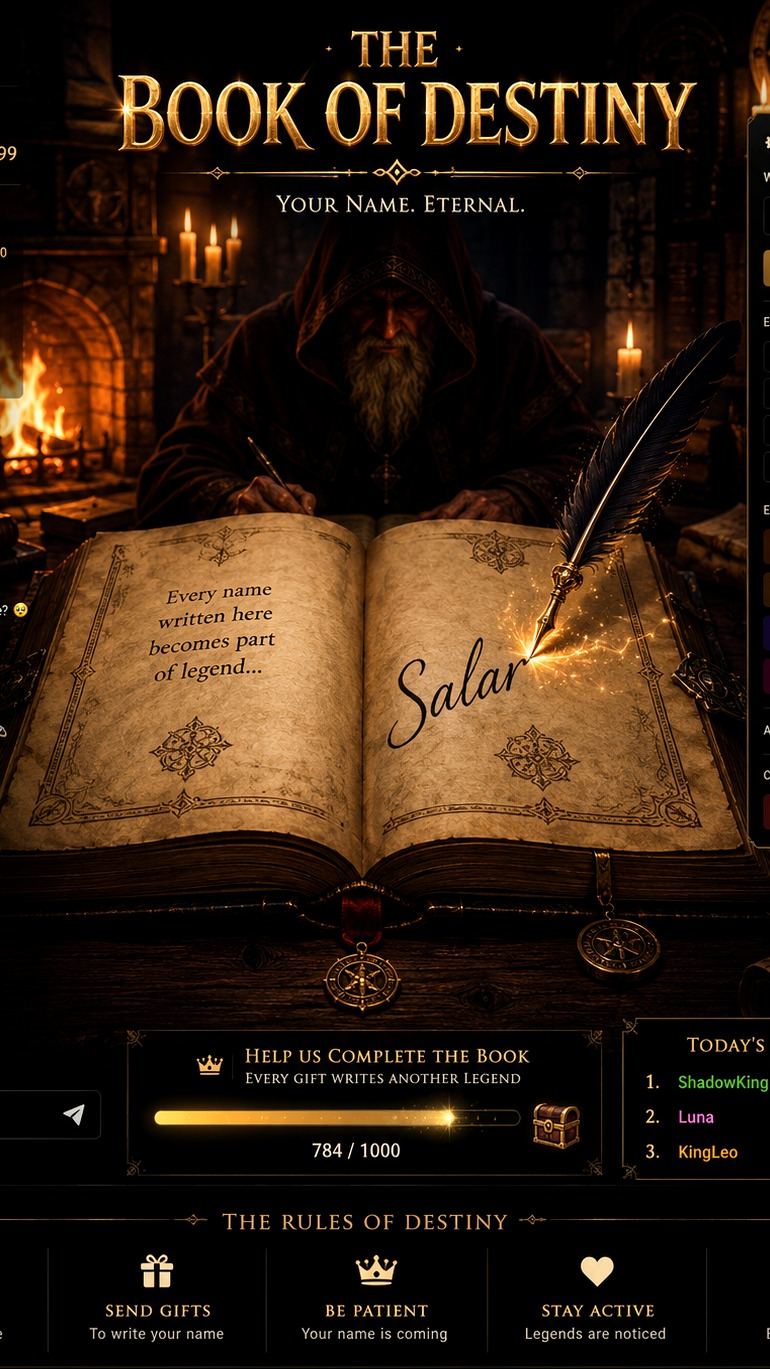
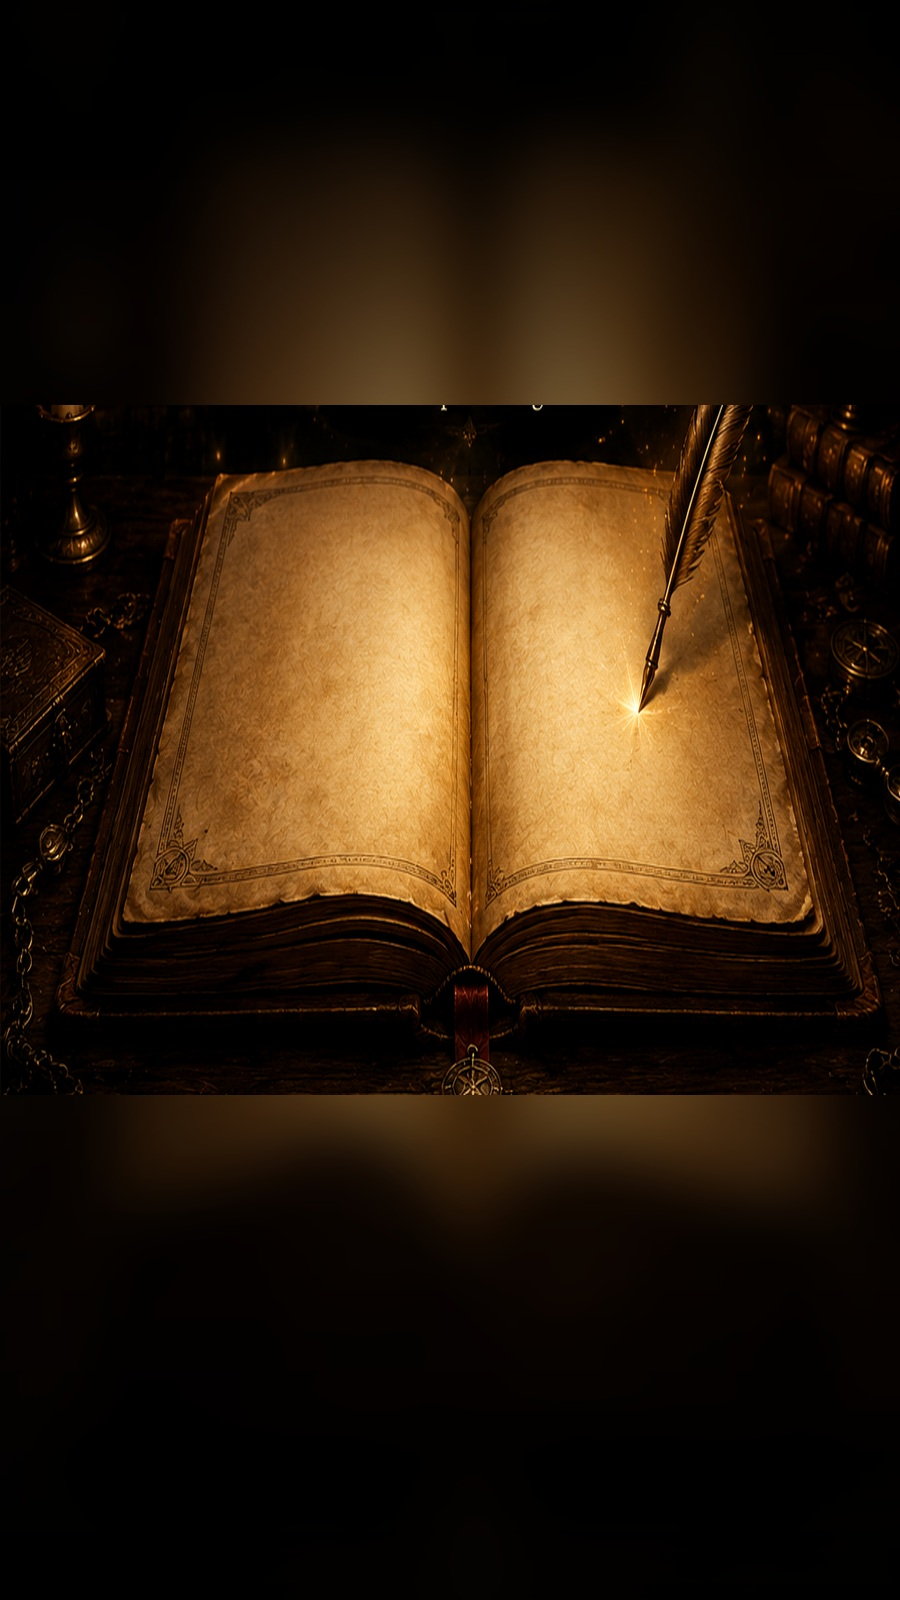
Add files via upload

diff --git a/index.html b/index.html
@@ -3,223 +3,116 @@
 <head>
 <meta charset="utf-8">
 <meta name="viewport" content="width=device-width,initial-scale=1,maximum-scale=1,user-scalable=no">
-<meta name="theme-color" content="#050301">
 <title>The Book of Destiny</title>
 <style>
-  :root{
-    --gold:#f4c56b;
-    --ink:#2a1308;
-  }
-  *{box-sizing:border-box}
-  html,body{
-    width:100%;height:100%;margin:0;overflow:hidden;background:#000;
-    font-family:Georgia,"Times New Roman",serif;
-  }
-  #app{
-    position:relative;
-    width:100vw;height:100vh;
-    background:
-      linear-gradient(to bottom,rgba(0,0,0,.12),rgba(0,0,0,.05) 55%,rgba(0,0,0,.42)),
-      url("background.jpg") center center/cover no-repeat;
-  }
+:root{--gold:#e9b74e;--cream:#ffecc2;--ink:#2a1407}
+*{box-sizing:border-box}
+html,body{margin:0;width:100%;height:100%;overflow:hidden;background:#000;font-family:Georgia,serif}
+#app{
+  position:relative;width:100vw;height:100vh;overflow:hidden;
+  background:url("background.jpg") center/cover no-repeat;
+}
+.title{
+  position:absolute;left:5%;right:5%;top:4%;text-align:center;color:var(--gold);
+  text-shadow:0 3px 14px #000,0 0 30px #000;
+}
+.title h1{margin:0;font-size:clamp(36px,8.8vw,74px);line-height:.95;letter-spacing:.04em}
+.title p{margin:14px 0 0;color:#fff4dc;font-size:clamp(16px,3.8vw,27px)}
 
-  /* subtle cinematic movement */
-  #app::before{
-    content:"";
-    position:absolute;inset:-3%;
-    background:inherit;
-    filter:saturate(1.04);
-    animation:breathe 9s ease-in-out infinite alternate;
-    pointer-events:none;
-  }
-  @keyframes breathe{
-    from{transform:scale(1.00)}
-    to{transform:scale(1.025)}
-  }
+#name{
+  position:absolute;
+  left:52.5%;top:47.3%;
+  width:38%;height:11%;
+  display:flex;align-items:center;justify-content:center;
+  padding:0 .25rem;
+  text-align:center;white-space:nowrap;
+  color:var(--ink);
+  font-family:"Brush Script MT","Segoe Script","Snell Roundhand",cursive;
+  font-size:clamp(37px,8vw,76px);
+  transform:rotate(-1.8deg);
+  opacity:0;
+}
+#name.write{opacity:1;animation:reveal 2.4s steps(24,end),glow 2.6s ease-out}
+@keyframes reveal{from{clip-path:inset(0 100% 0 0)}to{clip-path:inset(0 0 0 0)}}
+@keyframes glow{0%,78%{filter:none}91%{filter:drop-shadow(0 0 12px #ffd36a)}100%{filter:none}}
 
-  .top{
-    position:absolute;z-index:3;top:3.2%;left:50%;transform:translateX(-50%);
-    width:92%;text-align:center;color:#f8d993;text-shadow:0 2px 10px #000,0 0 22px #000;
-  }
-  .top h1{
-    margin:0;font-size:clamp(27px,7vw,58px);letter-spacing:.06em;
-    line-height:.95;
-  }
-  .top p{
-    margin:.55rem 0 0;font-size:clamp(14px,3.2vw,23px);
-    color:#fff1c8;letter-spacing:.04em;
-  }
-
-  .instruction{
-    position:absolute;z-index:3;bottom:4.2%;left:50%;transform:translateX(-50%);
-    width:88%;padding:.72rem 1rem;text-align:center;
-    color:#ffe6aa;background:rgba(0,0,0,.58);
-    border:1px solid rgba(244,197,107,.55);border-radius:999px;
-    font-size:clamp(14px,3.6vw,22px);letter-spacing:.03em;
-    backdrop-filter:blur(6px);
-    box-shadow:0 6px 30px rgba(0,0,0,.45);
-  }
-
-  /* covers the static generated name, then displays the live name */
-  .name-stage{
-    position:absolute;z-index:4;
-    left:52.5%;top:56.2%;
-    width:41%;height:12%;
-    transform:rotate(-3deg);
-    display:flex;align-items:center;justify-content:center;
-    overflow:hidden;
-    border-radius:10px;
-    background:
-      radial-gradient(ellipse at center,rgba(213,172,102,.96),rgba(170,121,59,.94));
-    box-shadow:inset 0 0 18px rgba(70,30,6,.28);
-  }
-  #name{
-    width:100%;padding:0 .35rem;text-align:center;white-space:nowrap;
-    color:var(--ink);
-    font-family:"Brush Script MT","Segoe Script","Snell Roundhand",cursive;
-    font-size:clamp(34px,8.5vw,76px);
-    line-height:1;
-    text-shadow:0 1px 0 rgba(255,255,255,.2);
-    opacity:0;
-  }
-  #name.writing{
-    opacity:1;
-    animation:reveal 2.6s steps(26,end), glow 2.6s ease-out;
-  }
-  @keyframes reveal{
-    from{clip-path:inset(0 100% 0 0)}
-    to{clip-path:inset(0 0 0 0)}
-  }
-  @keyframes glow{
-    0%,80%{filter:none}
-    92%{filter:drop-shadow(0 0 10px #ffd36f)}
-    100%{filter:none}
-  }
-
-  .spark{
-    position:absolute;z-index:5;left:76%;top:62%;
-    width:10px;height:10px;border-radius:50%;
-    background:#fff6bc;box-shadow:0 0 10px #ffd36f,0 0 25px #ff8d20;
-    opacity:0;
-  }
-  .spark.play{
-    animation:spark 2.6s linear;
-  }
-  @keyframes spark{
-    0%{opacity:0;transform:translateX(-150px) scale(.5)}
-    12%{opacity:1}
-    85%{opacity:1;transform:translateX(0) scale(1.2)}
-    100%{opacity:0;transform:translateX(15px) scale(0)}
-  }
-
-  .status{
-    position:absolute;z-index:9;left:10px;bottom:10px;
-    color:rgba(255,255,255,.12);font:11px Arial,sans-serif;
-    user-select:none;pointer-events:none;
-  }
-
-  /* hidden buffer: physical keyboard only */
-  #secret{
-    position:fixed;left:-10000px;top:-10000px;
-    opacity:0;width:1px;height:1px;
-  }
-
-  .flash{
-    position:absolute;inset:0;z-index:8;pointer-events:none;opacity:0;
-    background:radial-gradient(circle at 65% 60%,rgba(255,195,80,.30),transparent 38%);
-  }
-  .flash.play{animation:flash .75s ease-out}
-  @keyframes flash{0%{opacity:0}35%{opacity:1}100%{opacity:0}}
-
-  @media (orientation:landscape){
-    #app{width:56.25vh;height:100vh;margin:auto}
-  }
+#panel{
+  position:absolute;left:50%;bottom:5%;transform:translateX(-50%);
+  width:min(92%,680px);
+  display:flex;gap:9px;padding:11px;
+  background:rgba(3,2,1,.9);
+  border:1px solid rgba(233,183,78,.75);
+  border-radius:16px;backdrop-filter:blur(8px);
+}
+#panel.hidden{display:none}
+input,button{height:52px;border:0;border-radius:10px;font-size:18px}
+input{flex:1;min-width:0;padding:0 15px;background:#fff2d1;color:#241104}
+button{padding:0 16px;color:#fff8df;font-weight:700;background:linear-gradient(#d8a943,#81510f)}
+#showZone{position:absolute;right:0;bottom:0;width:65px;height:65px}
+.note{
+  position:absolute;left:50%;bottom:1.4%;transform:translateX(-50%);
+  color:rgba(255,255,255,.58);font:12px Arial,sans-serif;white-space:nowrap
+}
+#flash{position:absolute;inset:0;pointer-events:none;opacity:0;background:radial-gradient(circle at 68% 54%,rgba(255,206,96,.32),transparent 32%)}
+#flash.go{animation:flash .8s ease-out}
+@keyframes flash{0%{opacity:0}35%{opacity:1}100%{opacity:0}}
+@media(orientation:landscape){#app{width:56.25vh;height:100vh;margin:auto}}
 </style>
 </head>
 <body>
-<div id="app" tabindex="0">
-  <div class="top">
+<div id="app">
+  <div class="title">
     <h1>THE BOOK OF DESTINY</h1>
     <p>Comment your name. The book chooses who is remembered.</p>
   </div>
 
-  <div class="name-stage"><div id="name">Salar</div></div>
-  <div id="spark" class="spark"></div>
-  <div id="flash" class="flash"></div>
+  <div id="name"></div>
+  <div id="flash"></div>
 
-  <div class="instruction">✦ Comment your name to enter the eternal book ✦</div>
-  <div class="status">keyboard ready</div>
-  <input id="secret" autocomplete="off" autocapitalize="words" spellcheck="false">
+  <div id="panel">
+    <input id="viewerName" maxlength="22" placeholder="Type a viewer's name">
+    <button id="write">WRITE</button>
+    <button id="hide">HIDE</button>
+  </div>
+
+  <div id="showZone"></div>
+  <div class="note">Tap the bottom-right corner to show controls again</div>
 </div>
 
 <script>
-(() => {
-  const secret = document.getElementById("secret");
-  const nameEl = document.getElementById("name");
-  const spark = document.getElementById("spark");
-  const flash = document.getElementById("flash");
-  let buffer = "";
-  let busy = false;
+const input=document.getElementById("viewerName");
+const nameEl=document.getElementById("name");
+const flash=document.getElementById("flash");
+const panel=document.getElementById("panel");
+let busy=false;
 
-  function focusSecret(){
-    secret.focus({preventScroll:true});
-  }
+function writeName(){
+  const value=input.value.trim().replace(/\s+/g," ").slice(0,22);
+  if(!value||busy)return;
+  busy=true;
 
-  function writeName(raw){
-    const clean = raw.trim().replace(/\s+/g," ").slice(0,22);
-    if(!clean || busy) return;
-    busy = true;
+  nameEl.classList.remove("write");
+  flash.classList.remove("go");
+  void nameEl.offsetWidth;
 
-    nameEl.classList.remove("writing");
-    spark.classList.remove("play");
-    flash.classList.remove("play");
-    void nameEl.offsetWidth;
+  nameEl.textContent=value;
+  nameEl.classList.add("write");
+  flash.classList.add("go");
 
-    nameEl.textContent = clean;
-    nameEl.classList.add("writing");
-    spark.classList.add("play");
-    flash.classList.add("play");
+  input.value="";
+  setTimeout(()=>{busy=false;input.focus()},2700);
+}
 
-    if(navigator.vibrate) navigator.vibrate(30);
-
-    setTimeout(() => {
-      busy = false;
-      buffer = "";
-      secret.value = "";
-      focusSecret();
-    }, 2850);
-  }
-
-  // Physical keyboard workflow:
-  // Type any name anywhere. Press Enter. Nothing typed appears on screen.
-  window.addEventListener("keydown", (e) => {
-    if(e.metaKey || e.ctrlKey || e.altKey) return;
-
-    if(e.key === "Enter"){
-      e.preventDefault();
-      writeName(buffer);
-      return;
-    }
-    if(e.key === "Escape"){
-      buffer = "";
-      secret.value = "";
-      return;
-    }
-    if(e.key === "Backspace"){
-      e.preventDefault();
-      buffer = buffer.slice(0,-1);
-      return;
-    }
-    if(e.key.length === 1 && buffer.length < 22){
-      e.preventDefault();
-      buffer += e.key;
-    }
-  }, true);
-
-  // Tap once after opening page so Safari accepts keyboard focus.
-  document.getElementById("app").addEventListener("click", focusSecret);
-  window.addEventListener("load", focusSecret);
-})();
+document.getElementById("write").onclick=writeName;
+input.addEventListener("keydown",e=>{
+  if(e.key==="Enter"){e.preventDefault();writeName()}
+});
+document.getElementById("hide").onclick=()=>panel.classList.add("hidden");
+document.getElementById("showZone").onclick=()=>{
+  panel.classList.remove("hidden");
+  input.focus();
+};
+window.addEventListener("load",()=>input.focus());
 </script>
 </body>
 </html>